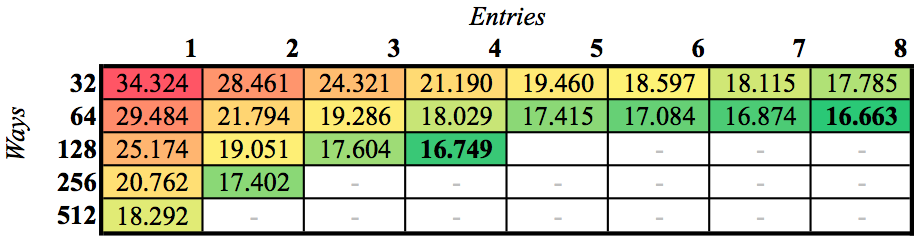
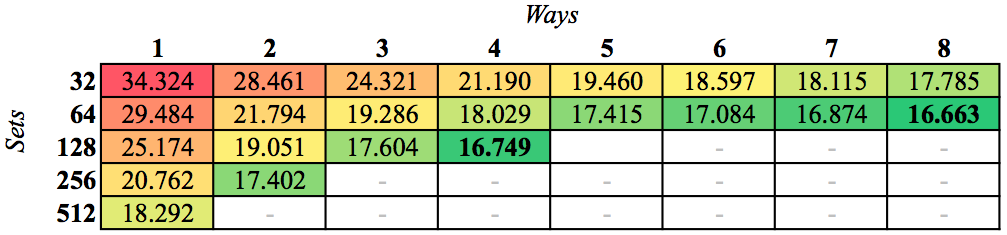
added some tables and i dont know, some other stuff too

diff --git a/doc/writeup.tex b/doc/writeup.tex
@@ -23,6 +23,14 @@
 \end{center}
 \end{figure}}
 
+\newcommand{\centertable}[3]{
+\begin{table}[ht!]  
+\begin{center} #1
+\caption{#2}
+\label{#3}
+\end{center}
+\end{table}}
+
 \title{\textbf{Branch Predictor and Branch Target Buffer} \\
 ECE 486/586 Final Project }
 \author{Eric Krause \hspace{1.4in} Bradon Kanyid\\
@@ -59,22 +67,22 @@ To start, we initializing everything to zero. This was to verify that our logic 
 In a high-performance processor, simply predicting whether a branch is taken or not taken accurately is not enough to eliminate pipeline stalls.  If taken, the destination address of the branch must also be predicted so that instructions beginning at the target address can be speculatively executed. 
  
 \subsection{Development History}
-Our development process was much like a small weasel--somewhat iterative, yet dynamic and highly agile.  
-
+Our development process was much like a small weasel--somewhat iterative, yet dynamic and highly agile.  The space used for the branch predictor is 3,713 bytes (see table \ref{sizebudget} in Appendix A), meaning that any branch target predictor design had to fit in less than 4,382 bytes.
 \subsubsection{Direct Mapped}
-Our initial design centered around a single, large direct-mapped cache with 1,024 entries, each storing a single 32-bit address, for a total size of 4,096 bytes.  This approach was appealing because of it's extremely simple implementation, and because it eliminated the need to store tags for any of the data.  Tags are not needed because there was no guarantee that the data returned was ``correct'' so any aliasing simply results in in a misprediction, which though not helpful is not catastrophic. \\\\
+Our initial design centered around using as much of the remaining 4,382 bytes as possible to create a single, large direct-mapped cache with 1,024 entries, each storing a single 32-bit address, for a total size of 4,096 bytes.  This approach was appealing because of it's extremely simple implementation, and because it eliminated the need to store tags for any of the data.  Tags are not needed because there was no guarantee that the data returned was ``correct'' so any aliasing simply results in in a misprediction, which though not helpful is not catastrophic. \\\\
 Upon completing this design, initial simulations using the first 4 trace files (FP-1, INT-1, MM-1, SERV-1) confirmed that aliasing was indeed a much larger problem than we had anticipated.
 
 \subsubsection{Relative Offset Table}
 In order to fit ``more cache'' into the available space, we redesigned the large cache from 3.1.1 to operate only on PC-relative branches, and only store the offset from the PC, which was only 24 bits.  This reduced the size of the table by 25\% to 3,072 bytes.  We had planned on using the additional 1024 bytes freed to create a smaller, wider cache that could store full 32-bit addresses that could not fit into the relative offset cache, however again, the amount of aliasing--even when considering only PC-relative branches--was far too high.\\\\
 The smaller, 32-bit wide cache was never implemented because of the amount of aliasing that occurred with direct mapped caches, even when we increased the cache to be unrealistically large. 
 
-
 \subsection{Final Design}
 Our final design abandoned all direct-mapped tables and focused on multi-way associativity to reduce aliasing.  Our final design consisted of a large 512-entry main cache (64 sets x 8 ways), a 64-entry victim cache (8 sets x 8 ways), and a 33-entry return address stack to handle returns. 
 \subsubsection{Dynamic Objects}
 Very soon after the direct-mapped cache approach was abandoned, the decision was made to design all objects with dynamic sizes, so that we could easily experiment with differently sized caches with no code changes.  Parameterized LRU and Cache objects greatly accelerated all testing and simulation efforts. 
 \subsubsection{Main Cache}
+The main cache was given highest priority in terms of space allocation.  The bold entries in table \ref{sizebydim} (Appendix A) indicate the largest possible configurations our space budget could accommodate.
+
 \subsubsection{Return Address Stack}
 \subsubsection{Victim Cache}
 \section{Size Budget}
@@ -82,5 +90,7 @@ Very soon after the direct-mapped cache approach was abandoned, the decision was
 \section{Results}
 \section{Conclusion}
 \appendix
-the codes
+\onecolumn
+\section{Tables}
+\centertable{\includegraphics[width=6in]{img/sizebydim.png}}{Total space used (in bytes) for various cache dimensions}{sizebydim}\centertable{\includegraphics[width=\columnwidth]{img/sizebudget.png}}{Total size of all project elements}{sizebudget}
 \end{document}
